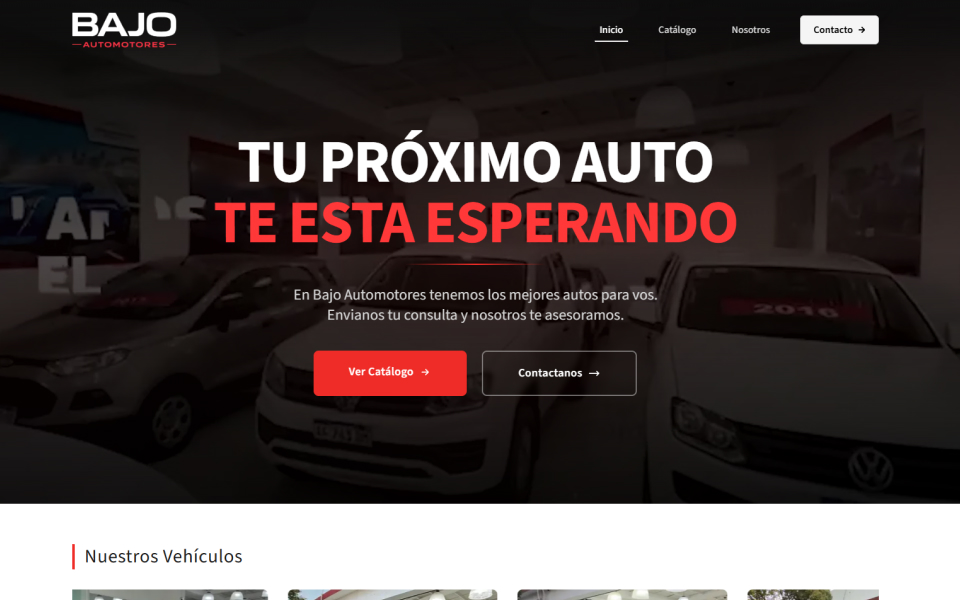
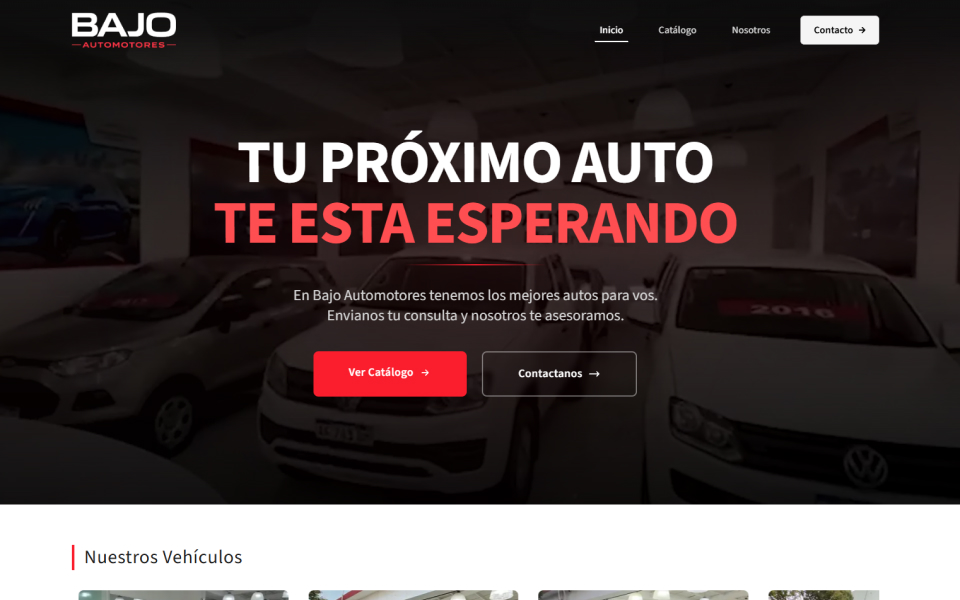
og image

diff --git a/tailwind.config.ts b/tailwind.config.ts
@@ -14,9 +14,9 @@ const config: Config = {
         sourceSans3: ['var(--font-source-sans-3)', 'sans-serif'],
       },
       colors: {
-        'color-primary': '#EF2C27',
-        'color-primary-dark': '#FF0D07',
-        'color-primary-light': '#FF3838',
+        'color-primary': '#FA1E2D',
+        'color-primary-dark': '#FF1424',
+        'color-primary-light': '#FF4E51',
         'color-primary-admin': '#EF2C27',
         'color-primary-dark-admin': '#FF0D07',
         'color-secondary': '#1E1E1E',
